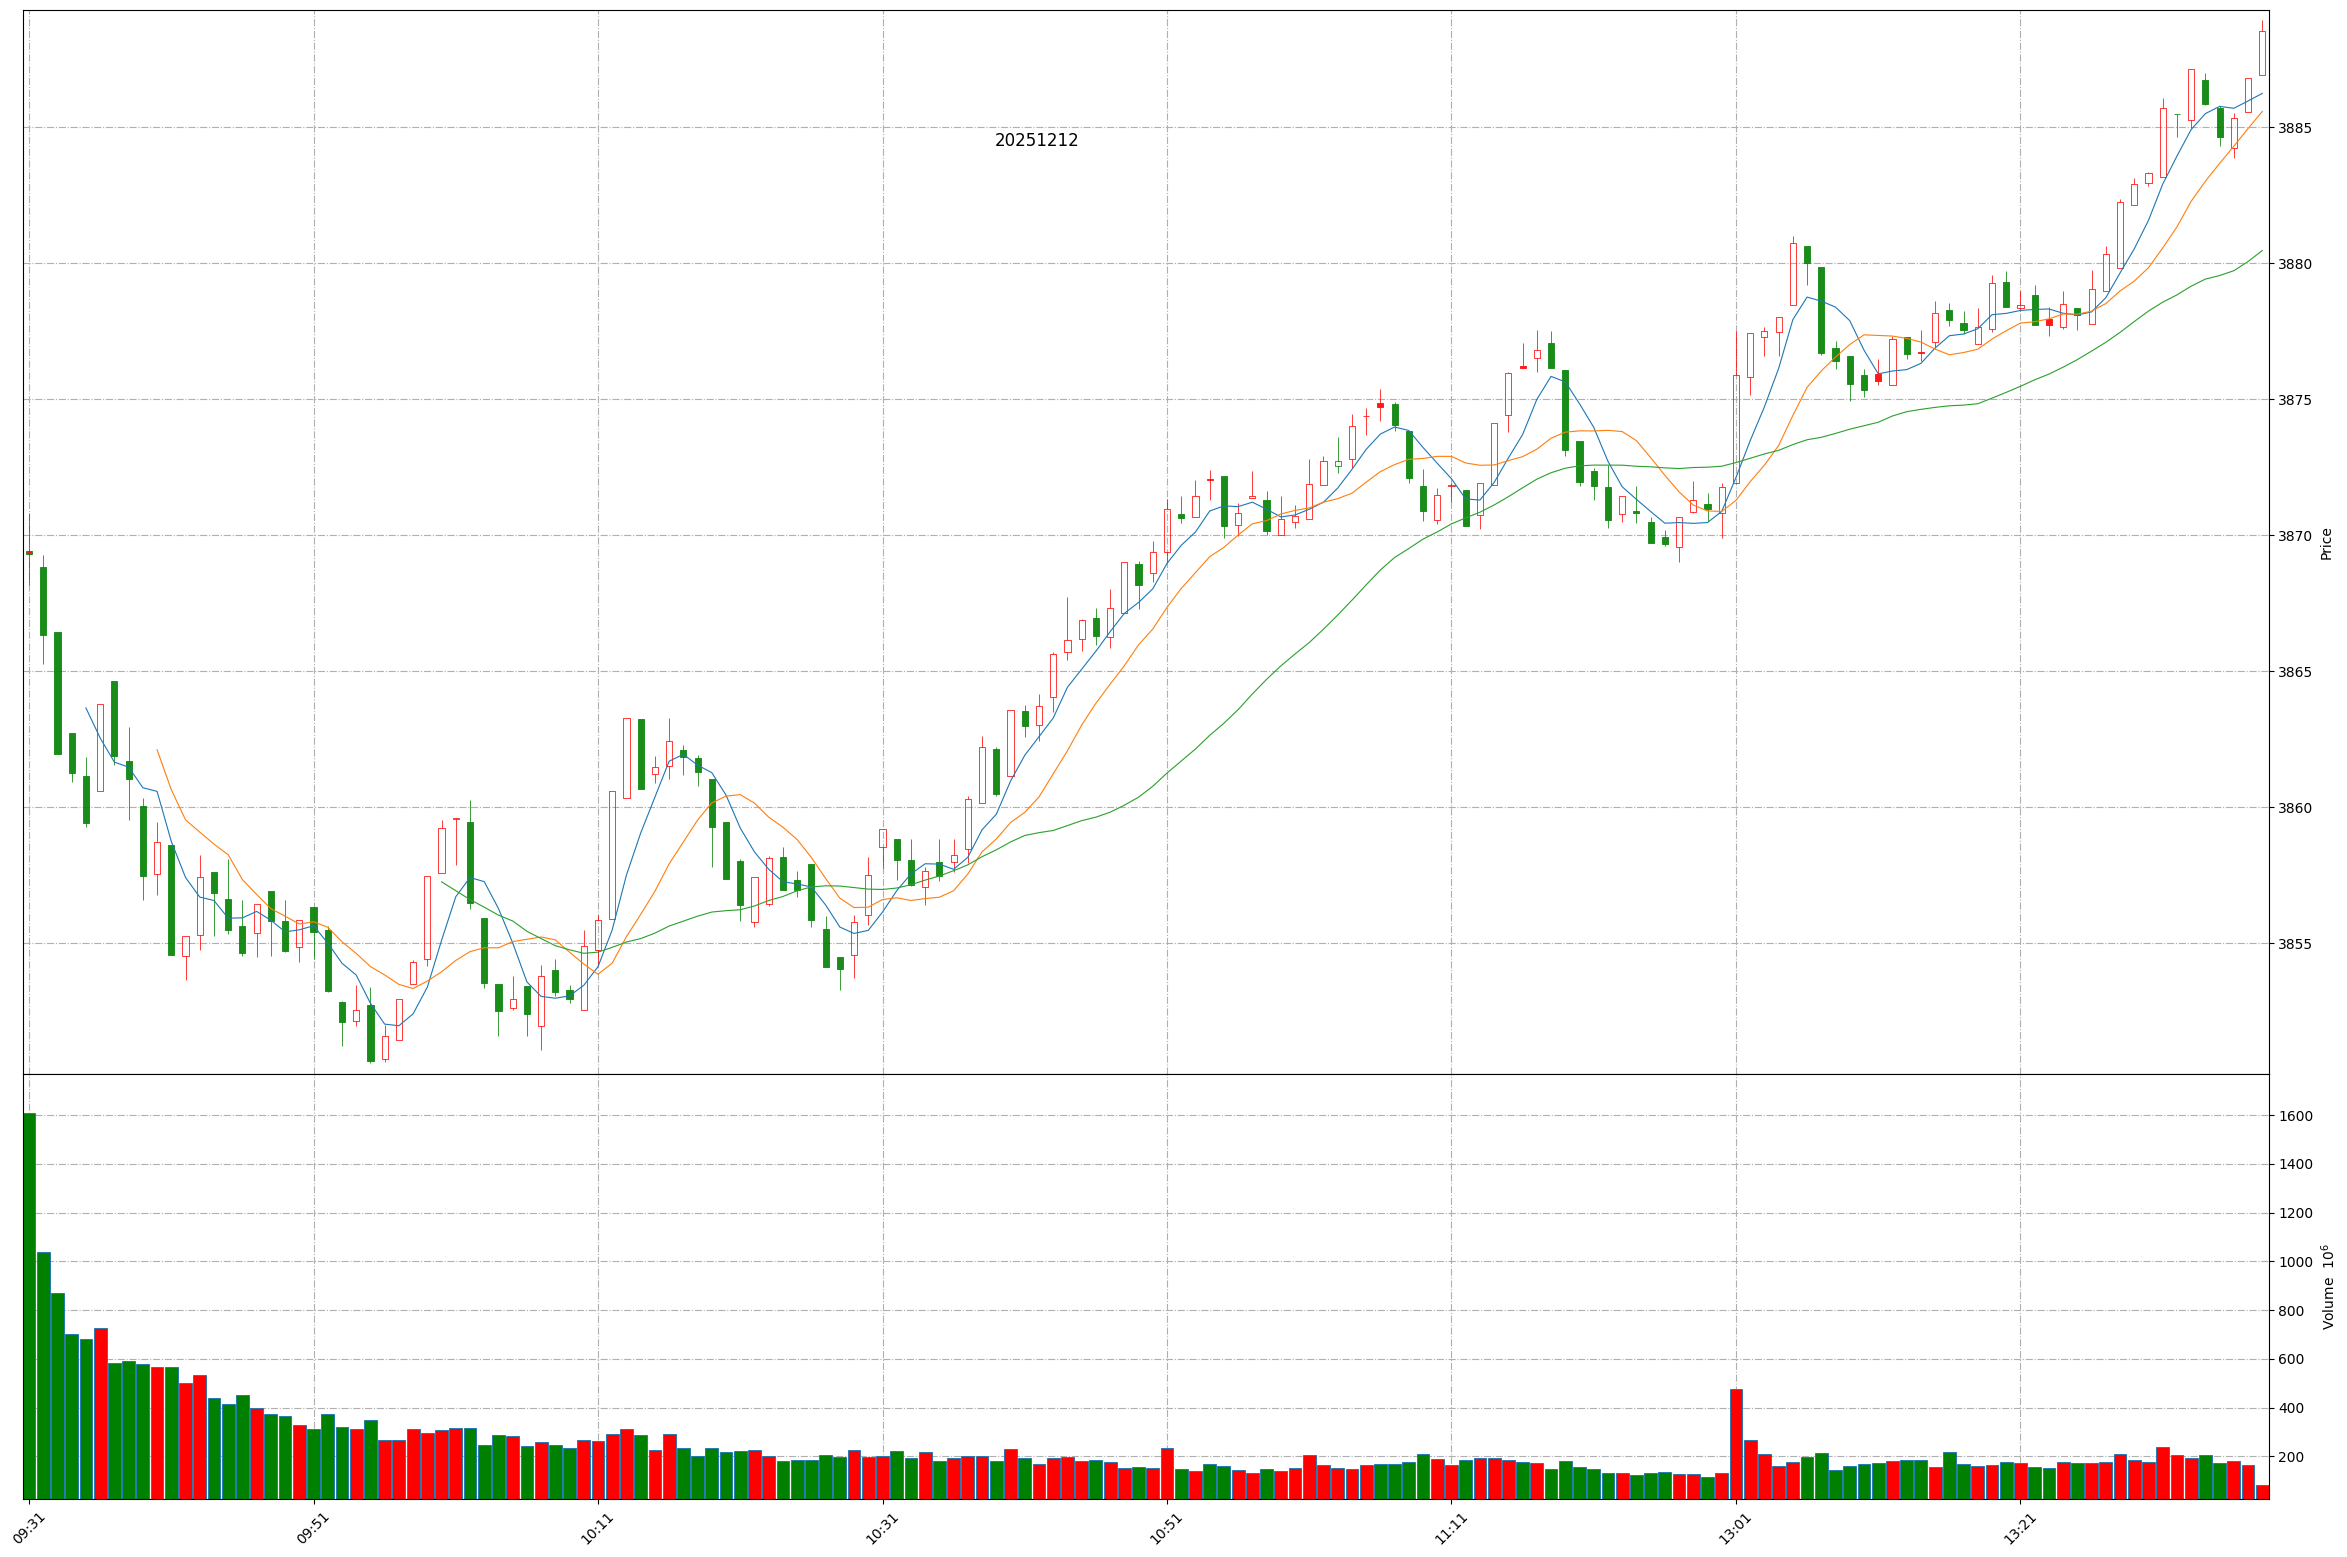
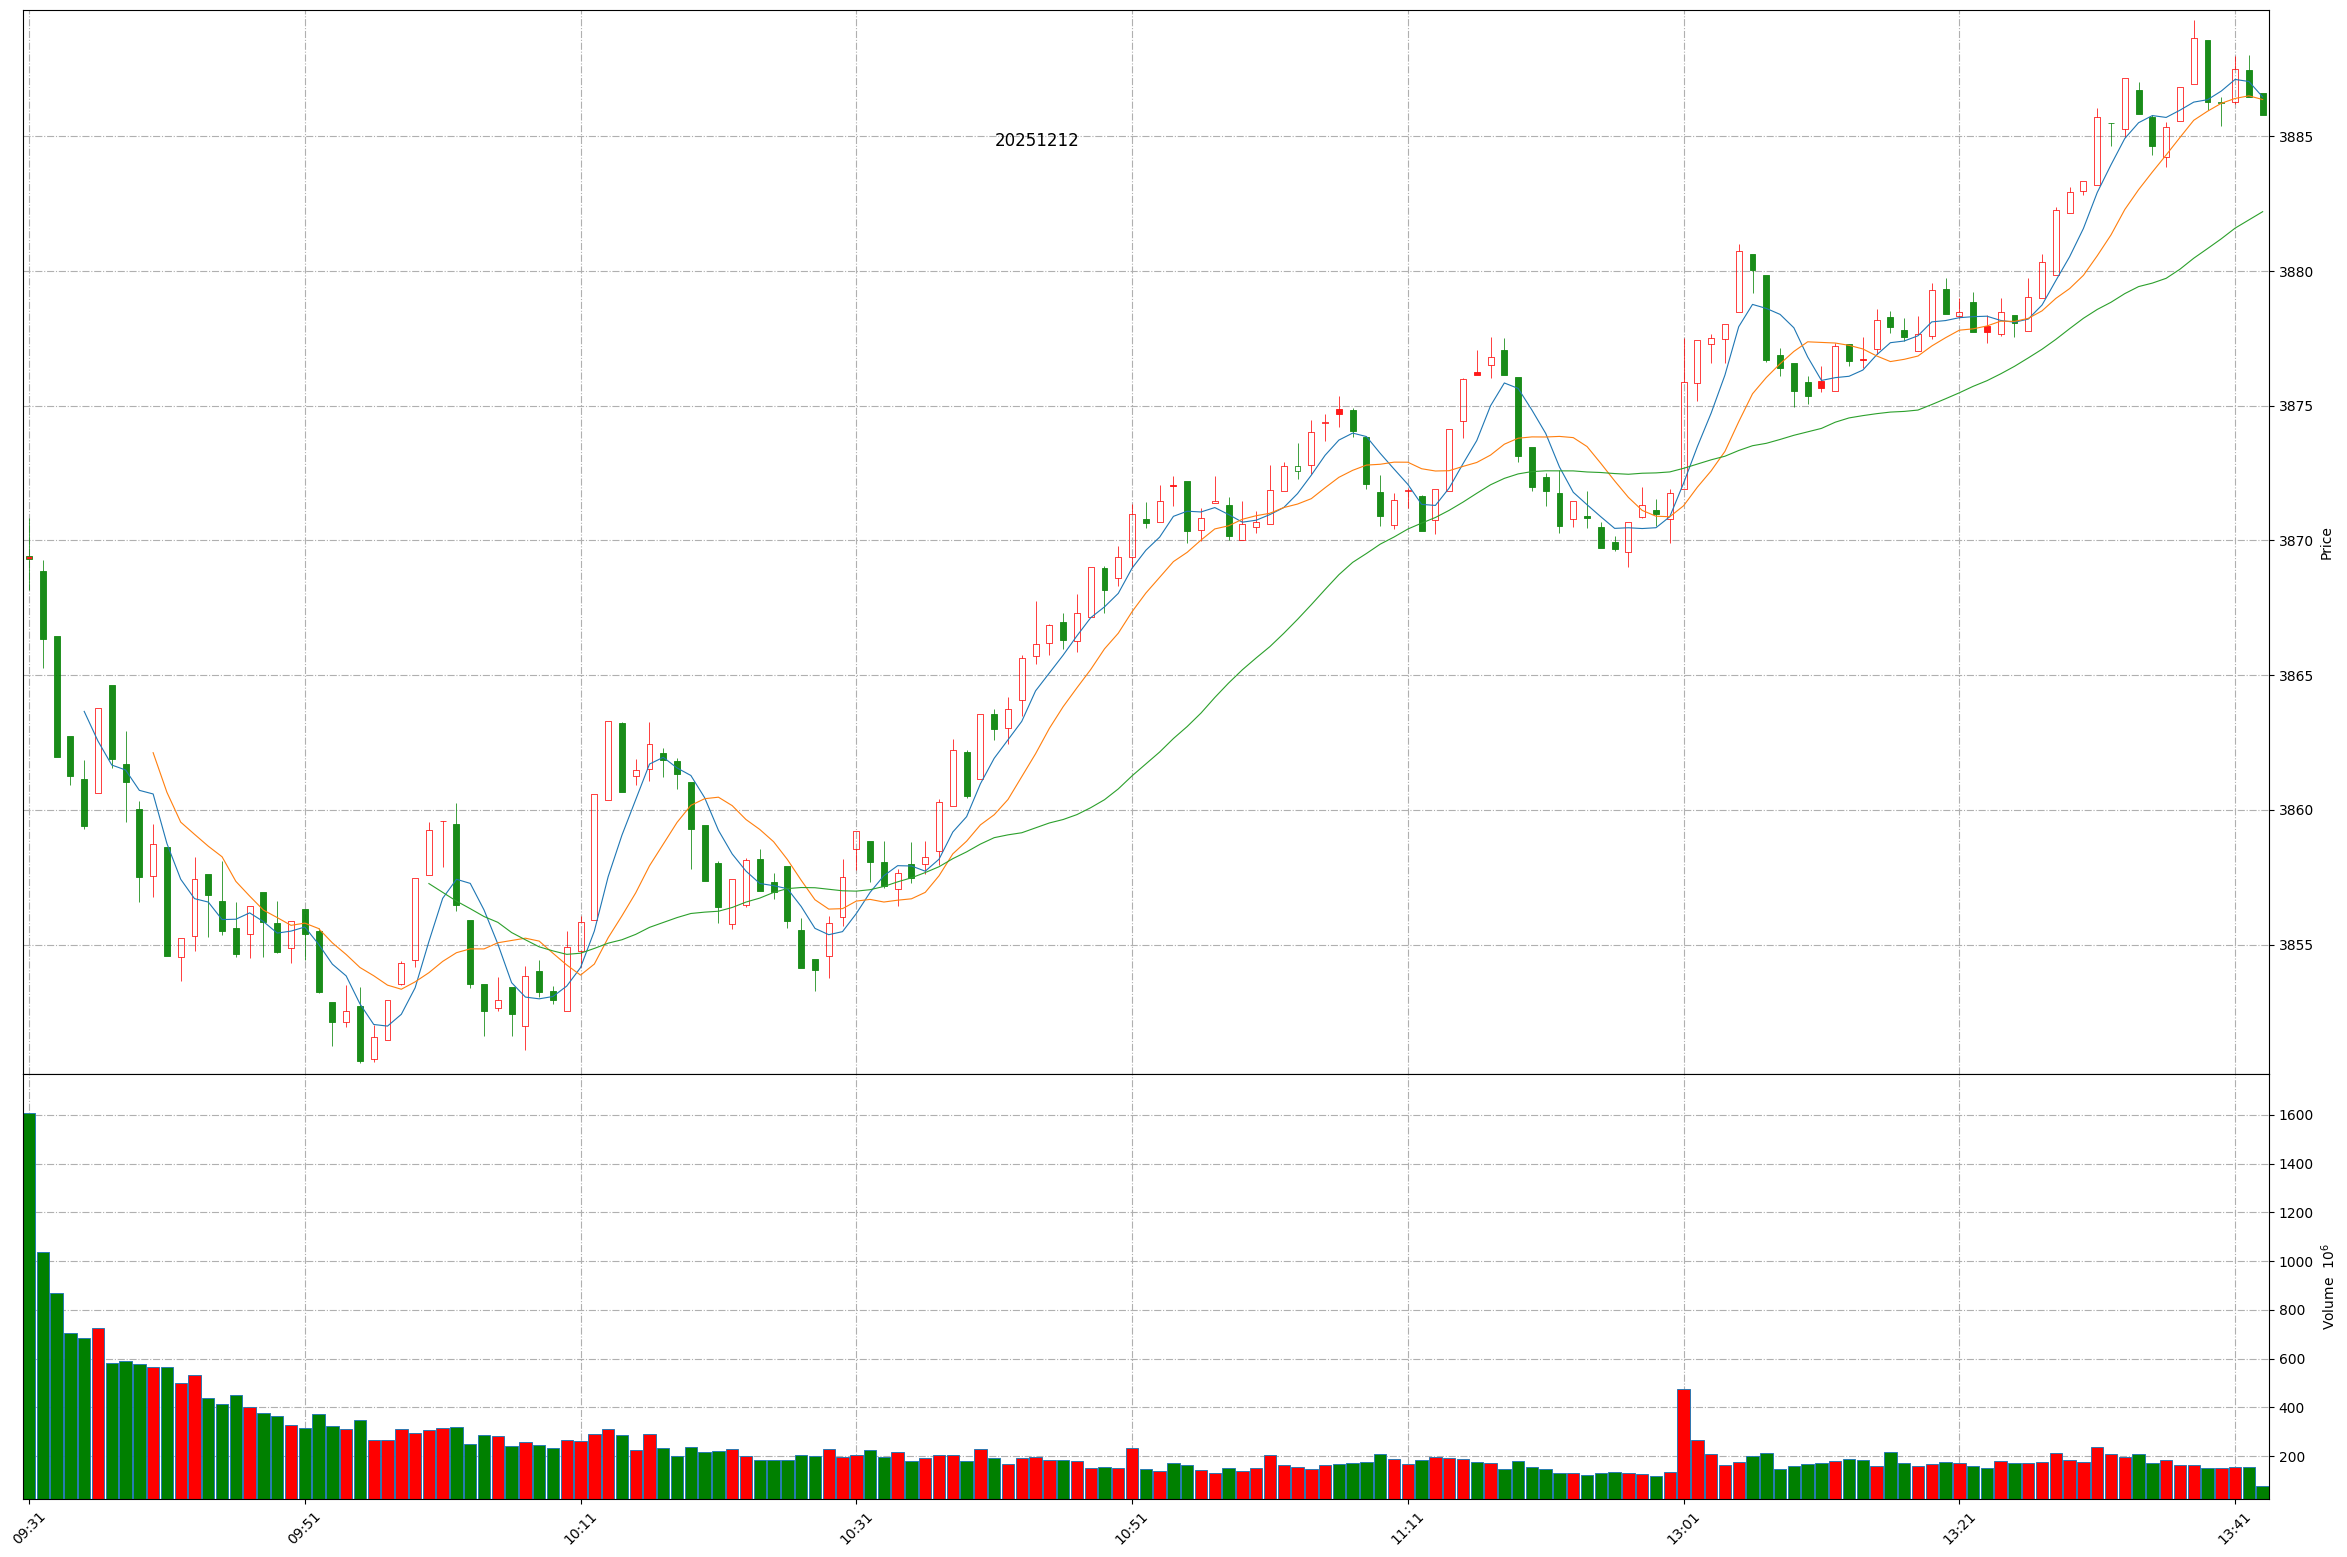
Github action update at 2025-12-12 13:42:57.

Changed region(s): [[0.0311, 0.0308, 0.9953, 0.6782], [0.0311, 0.8632, 0.9642, 0.9865], [0.4666, 0.4933, 0.4977, 0.5241]]

diff --git a/README.md b/README.md
@@ -1,11 +1,11 @@
 
 # Daily-A-share-market-quotes 每日 A 股指数（5min 更新）- 20251212
 
-### 上证指数 20251212 13:37
+### 上证指数 20251212 13:42
 ![](./fig/2025/12/20251212-sh000001.png)
 
-### 深证成指 20251212 13:37
+### 深证成指 20251212 13:42
 ![](./fig/2025/12/20251212-sz399001.png)
 
-### 北证50 20251212 13:37
+### 北证50 20251212 13:42
 ![](./fig/2025/12/20251212-bj899050.png)
